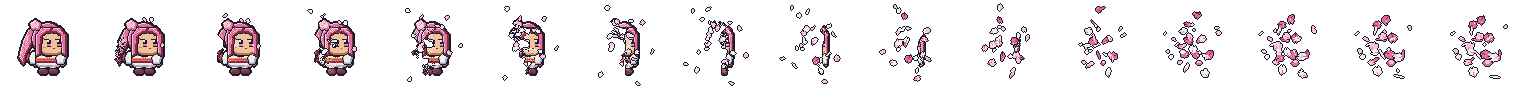
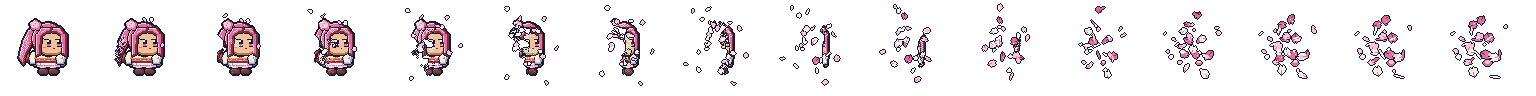
Clean up sakura sprites: outfit detail pass
Pink under-collar, a woven gold obi pattern with a lit top edge and a cord
knot, a blossom hem trim, blossoms on the sleeves, soft cloth folds.

Claude-Session: https://claude.ai/code/session_01J8LgTLVYzThXjNSRVhWqep

diff --git a/tools/sprites/generate.py b/tools/sprites/generate.py
@@ -652,15 +652,31 @@ def sakura(step=None, t=0):
     up.part(RR(BODY, 3), WHITE)  # kimono
     for x in range(BODY[0] + 2, BODY[2] - 1, 4):  # hem ripples, the folds rolling back
         up.dot(x + (t % 4), BODY[3] - 1, STEEL)
-    up.flat(L([(26, 33), (32, 40)], 1), RED)  # crossed collar
+    up.flat(L([(26, 33), (32, 40)], 1), RED)  # crossed collar over a pink under-collar
     up.flat(L([(38, 33), (32, 40)], 1), RED)
+    up.flat(L([(27, 33), (32, 39)], 1), PINK_L)
+    up.flat(L([(37, 33), (32, 39)], 1), PINK_L)
     for x, y in ((24, 36), (40, 37), (27, 46), (37, 47)):  # blossom pattern
         up.flat(R((x, y, x + 1, y + 1)), PINK_L)
+    for x in range(BODY[0] + 2, BODY[2] - 1, 3):  # hem trim: a band of pink blossoms along the bottom
+        up.flat(R((x, 47, x, 47)), PINK)
+    up.flat(R((BODY[0] + 1, 48, BODY[2] - 1, 48)), PINK_L)
+    for x, y0 in ((24, 44), (39, 45)):  # soft folds in the cloth, light from the top left
+        up.flat(L([(x, y0), (x, y0 + 2)], 1), STEEL)
     up.part(R((20, 40, 44, 44)), RED, line=False)  # obi
+    up.flat(R((20, 40, 44, 40)), ORANGE)  # its lit top edge
     up.flat(R((20, 42, 44, 42)), PINK)  # obi cord
+    for x in (23, 28, 36, 41):  # woven gold pattern
+        up.dot(x, 41, YELLOW)
+    for x in (25, 33, 39):
+        up.dot(x, 43, MAROON)
+    up.flat(R((31, 42, 33, 42)), PINK_L)  # the cord's knot
     up.part(E((ARM_X[1] + 1, 43, ARM_X[1] + 5, 47)), SKIN)  # front hand
     up.part(sleeve(ARM_X[1] - 1, ARM_X[1] + 6), WHITE)  # front sleeve
     up.flat(L([(ARM_X[1] - wave(3, 1), 44), (ARM_X[1] + 5 - wave(2, 1), 44)], 1), PINK_L)
+    for x in (ARM_X[0], ARM_X[1]):  # a blossom on each sleeve
+        up.flat(R((x + 2, 39, x + 3, 40)), PINK)
+        up.dot(x + 2, 39, PINK_L)
     # long ponytail from a high tie at the back of her head, flowing in the wind
     up.part(P([(19, 9), (12, 12), (8 - wave(0, 0.5), 20), (6 - wave(1, 1), 30), (6 - wave(2, 1.5), 40),
                (9 - wave(3, 2), 46), (12 - wave(2, 1.5), 38), (15 - wave(1, 1), 28), (19, 17)]), PINK)
